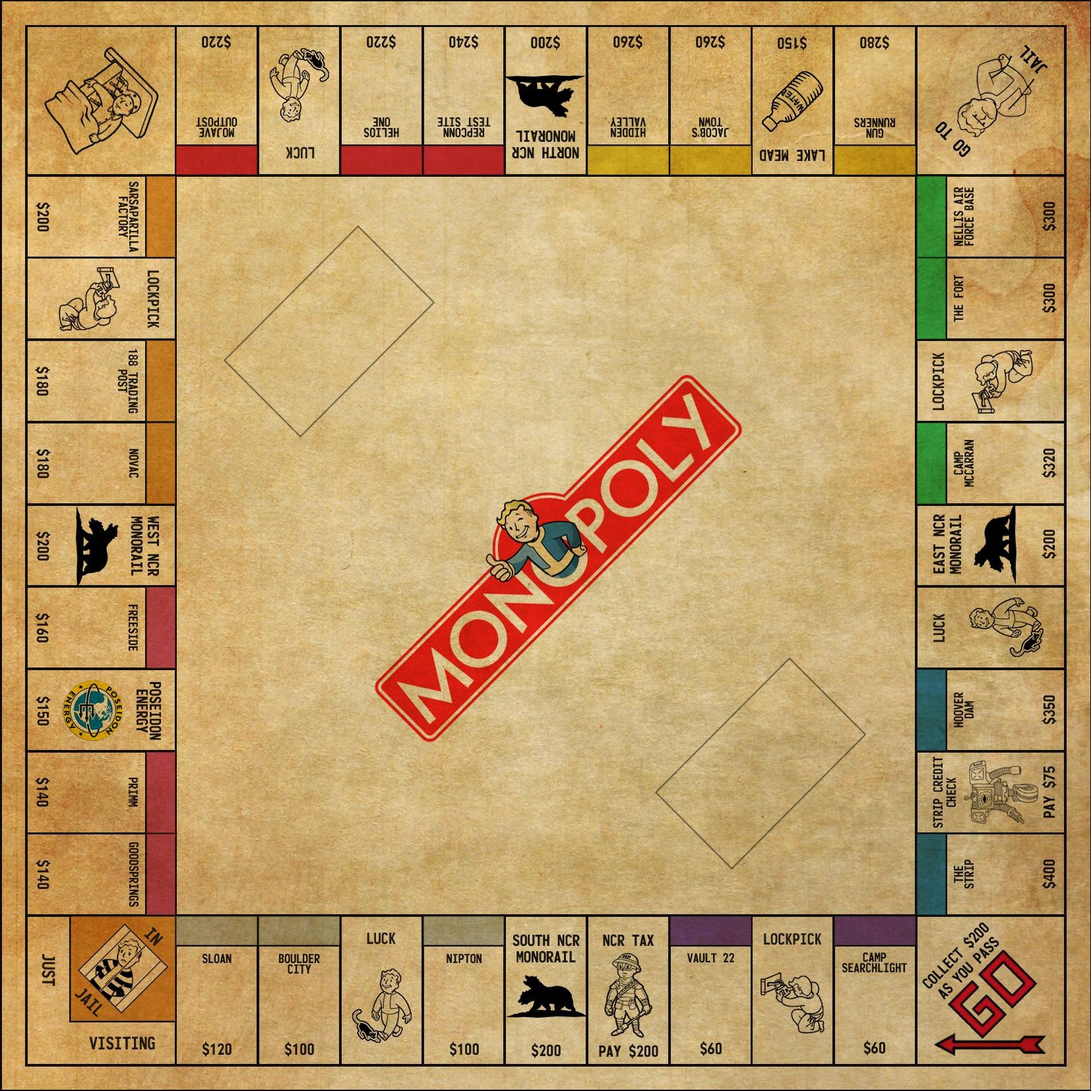
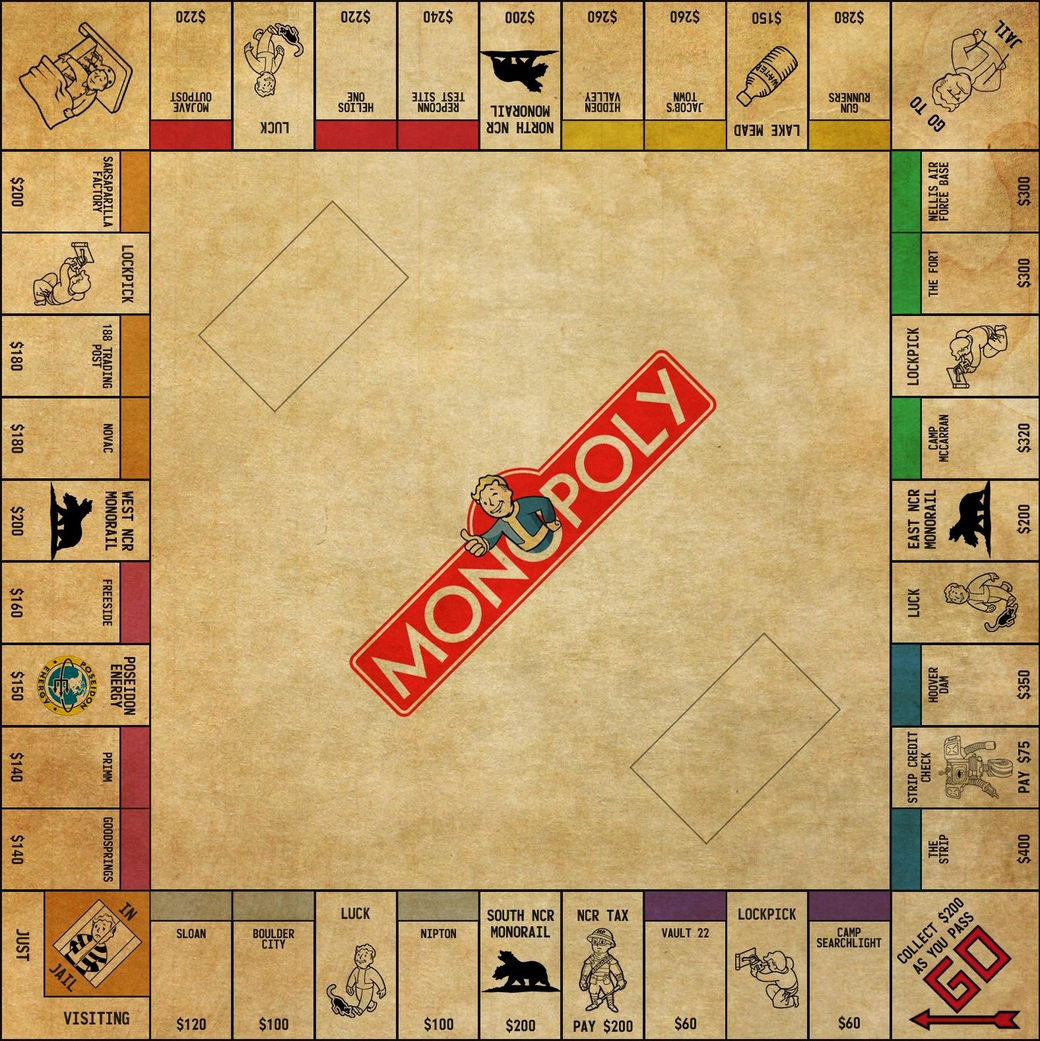
Añadido tablero y arreglada la posicion

diff --git a/templates/monopoly.html b/templates/monopoly.html
@@ -3,15 +3,12 @@
 <head>
 	<meta http-equiv="Content-Type" content="text/html; charset=UTF-8">
 	<title>Monopoly de fallout</title>
-	<link rel="stylesheet" type="text/css" href="{{ url_for('static', filename='style.css') }}">
+	<link rel="stylesheet" type="text/css" href="../static/style.css">
 	<title>Falloutpoly</title>
 </head>
-<body>
-	<h1 class="centrar">
-		Benvenute
-	</h1>
-	<div class="tablero">
-		<img src="../static/tablero.jpg">
+<body style="padding-top: 0; padding-bottom: 0; padding-left: 0; padding-right: 0; margin: 0;">
+	<div style="text-align: center;">
+		<img style="height: 99vh;" src="../static/tablero.jpg">
 	</div>
 </body>
 </html>

diff --git a/static/style.css b/static/style.css
@@ -86,16 +86,6 @@ video {
 	vertical-align: middle;
 }
 
-.tablero{
-  min-width: 100%;
-  min-height: 100%;
-  width: auto;
-  height: auto;
-  position: fixed;    
-  top: 50%;
-  left: 50%;
-}
-
 .in_line{
 	display: inline-block;
 }
